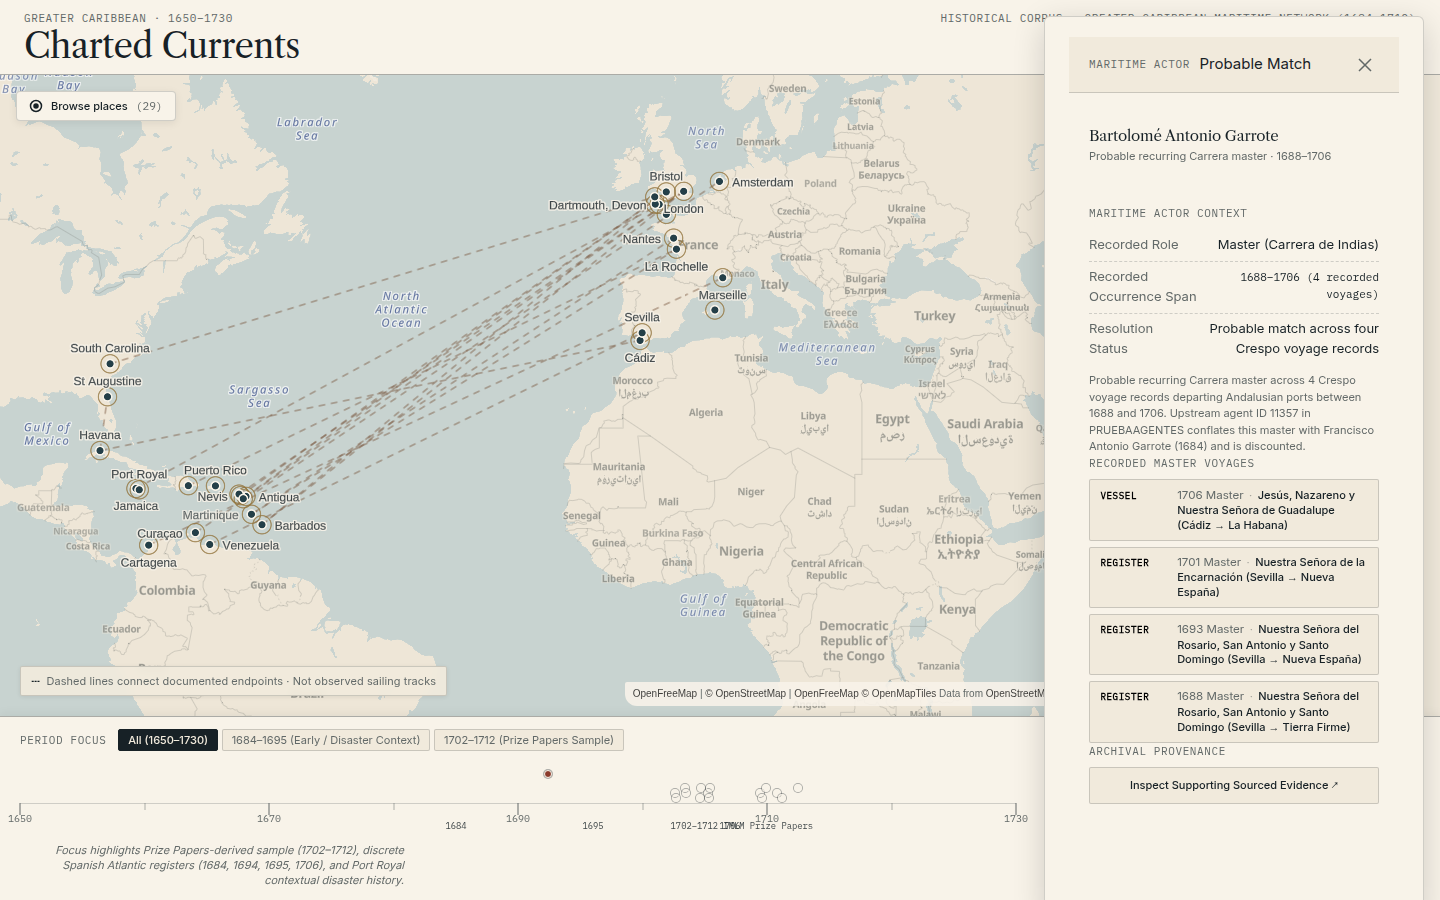
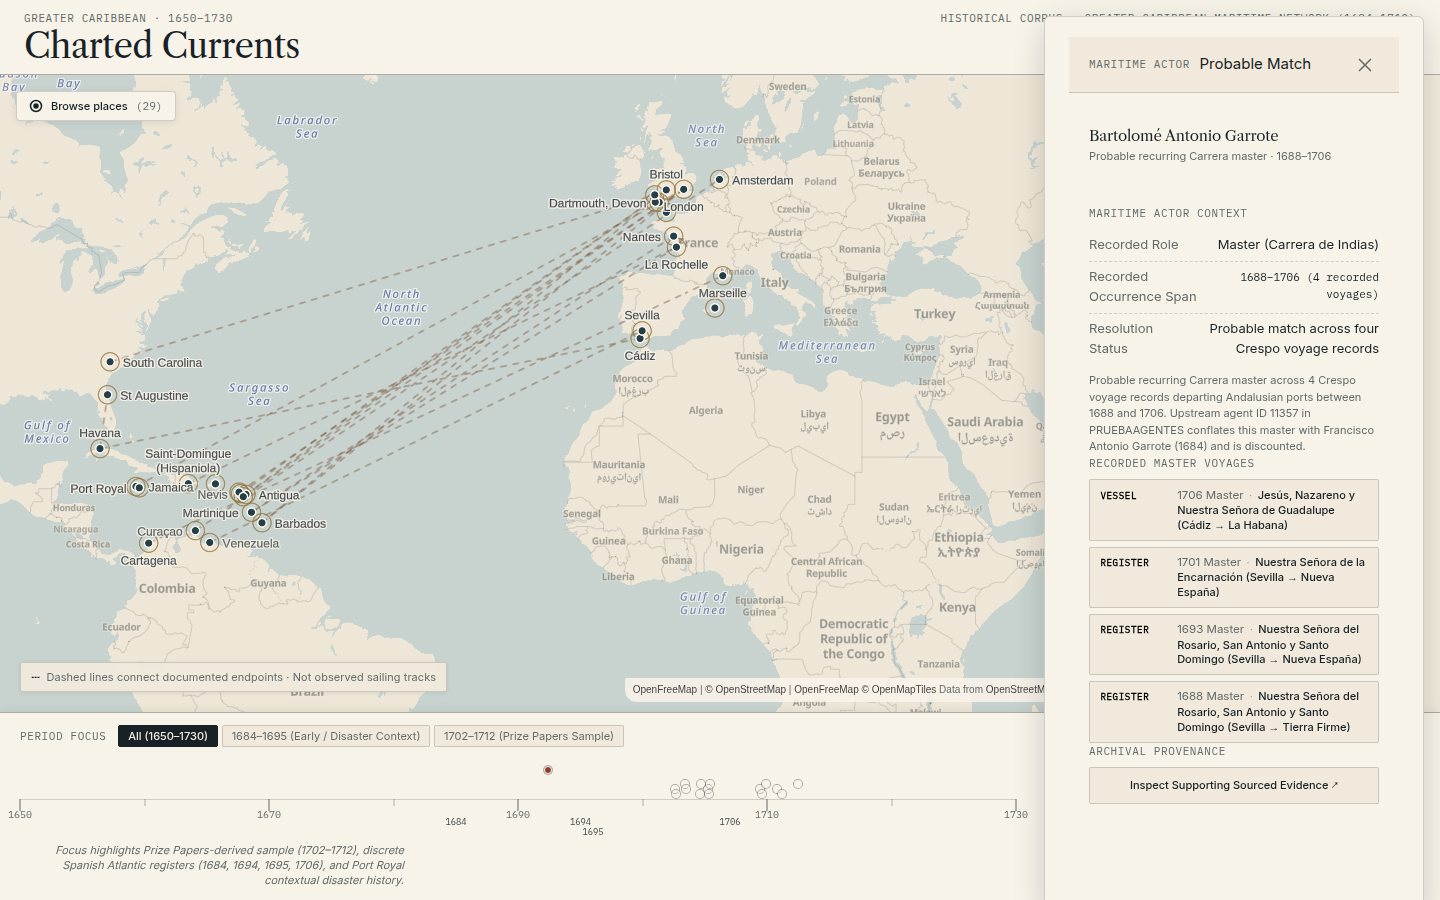
fix(review): privacy hardening, truthful freewheel posture, and timeline declutter

diff --git a/scripts/audit-freewheel-pilot.py b/scripts/audit-freewheel-pilot.py
@@ -11,11 +11,12 @@ Compares findings against the baseline local GPU (Qwen 14B) audit without voting
 import json
 import os
 import re
+import shutil
 import subprocess
 import sys
 import time
 
-FREEWHEEL_BIN = "/home/erich/.local/bin/freewheel"
+FREEWHEEL_BIN = os.environ.get("FREEWHEEL_BIN") or shutil.which("freewheel")
 DOSSIER_PATH = "data/review/crespo/reconciliation_garrote.json"
 REGRESSION_PATH = "data/review/crespo/contradictions/garrote_maestre_11357_regression.json"
 QWEN_AUDIT_PATH = "data/review/crespo/audits/ollama_garrote_pilot.json"
@@ -74,8 +75,8 @@ def normalize_verdict(raw_verdict: str) -> str:
 
 def run_freewheel_audit():
     print(f"\n=== Charted Currents Freewheel Historical-Auditor Pilot ===")
-    if not os.path.exists(FREEWHEEL_BIN):
-        print(f"[!] ERROR: Freewheel binary not found at {FREEWHEEL_BIN}", file=sys.stderr)
+    if not FREEWHEEL_BIN or not os.path.exists(FREEWHEEL_BIN):
+        print(f"[!] ERROR: Freewheel binary not found in PATH or FREEWHEEL_BIN ({FREEWHEEL_BIN})", file=sys.stderr)
         sys.exit(1)
 
     if not os.path.exists(DOSSIER_PATH) or not os.path.exists(REGRESSION_PATH):
@@ -187,12 +188,14 @@ Respond with ONLY a JSON object:
                 "attempt_index": idx,
                 "requested_model": req_model,
                 "requested_provider": req_provider,
-                "status": "PROVIDER_UNAVAILABLE" if "not an approved" in err_msg or "500" in err_msg else "ERROR",
+                "status": "FREEWHEEL_ROUTE_FAILED",
                 "returncode": res.returncode,
                 "diagnostic_note": (
-                    "Model not approved for policy-eligible casual routing in global Freewheel config; "
-                    "probed via zen-status returning HTTP 500 Internal server error from OpenCode Zen."
-                    if "not an approved" in err_msg else err_msg[:200]
+                    "Muse Spark 1.3 Free is available as a free OpenCode Zen model, but the Freewheel / Zen route "
+                    "attempted during this Packet 6 review failed at test time."
+                ),
+                "followup_note": (
+                    "Investigate Freewheel ↔ OpenCode Zen Spark model-ID/catalog routing in a future 10% tooling cycle."
                 ),
                 "duration_seconds": round(dur, 2)
             })
@@ -237,7 +240,6 @@ Respond with ONLY a JSON object:
                 "total_tokens": fw_out.get("total_tokens")
             },
             "tools_disabled": fw_out.get("tools_disabled", 14),
-            "repository_mutation_disabled": True,
             "model_evaluation": parsed_eval or {"raw_text": raw_answer},
             "normalized_verdict": normalized_verdict
         }
@@ -245,12 +247,38 @@ Respond with ONLY a JSON object:
 
     # Cross-Model Comparison & Adjudication
     successful_attempts = [a for a in attempts if a.get("status") == "success"]
-    primary_fw_attempt = successful_attempts[0] if successful_attempts else None
+
+    # Model-family perspective collection
+    qwen_verdict = (
+        qwen_baseline.get("model_evaluation", {}).get("verdict")
+        if qwen_baseline else "NEEDS_MORE_EVIDENCE"
+    )
+
+    nemotron_attempts = [
+        a for a in successful_attempts
+        if "nemotron" in str(a.get("actual_model_id", "")).lower()
+    ]
+    nemotron_verdicts = {a.get("normalized_verdict") for a in nemotron_attempts}
+    nemotron_family_verdict = (
+        nemotron_verdicts.pop() if len(nemotron_verdicts) == 1
+        else ("DIVERGENT_WITHIN_FAMILY" if nemotron_verdicts else "NO_SUCCESSFUL_CALL")
+    )
+
+    perspectives = {
+        "qwen_2.5_14b": qwen_verdict,
+        "nemotron_3_ultra_family": nemotron_family_verdict
+    }
+
+    unique_perspectives = set(perspectives.values())
+    verdict_synthesis = (
+        "PROCESS_REVIEW_AGREEMENT" if len(unique_perspectives) == 1
+        else "PROCESS_REVIEW_DIVERGENCE"
+    )
 
     comparison = {
         "qwen_baseline": {
             "model": qwen_baseline.get("model") if qwen_baseline else "qwen2.5:14b-instruct-q4_K_M",
-            "verdict": qwen_baseline.get("model_evaluation", {}).get("verdict") if qwen_baseline else "NEEDS_MORE_EVIDENCE",
+            "verdict": qwen_verdict,
             "missing_discriminators": qwen_baseline.get("model_evaluation", {}).get("missing_discriminators_noted", []) if qwen_baseline else []
         },
         "freewheel_results": [
@@ -262,21 +290,40 @@ Respond with ONLY a JSON object:
             }
             for a in successful_attempts
         ],
-        "both_noticed_11357_conflict": True,
-        "both_distinguished_francisco": True,
-        "either_invented_facts": False,
-        "reversibility_understanding": "Both reviewers operated under occurrence-level reversibility constraint.",
-        "verdict_synthesis": (
-            "AGREEMENT" if all(a.get("normalized_verdict") == "NEEDS_MORE_EVIDENCE" for a in successful_attempts)
-            else "PROCESS_REVIEW_DIVERGENCE"
+        "model_family_perspectives": perspectives,
+        "provider_routing_note": (
+            "The two successful Nemotron 3 Ultra calls (OpenCode and OpenRouter) represent provider and routing "
+            "redundancy for a single model family, not two independent model judgments."
         ),
+        "reversibility_understanding": "Both reviewer harnesses operated under occurrence-level reversibility constraint.",
+        "reviewer_source_layer_overstatements_noted": [
+            {
+                "model_assertion": "The four rows each cite AGI Contratación manuscripts",
+                "project_adjudication": (
+                    "Crespo TODOSNAVIOS rows carry secondary AGI Contratación citations, "
+                    "but Charted Currents has not independently inspected the underlying archival manuscripts."
+                )
+            },
+            {
+                "model_assertion": "Crespo's PRUEBAAGENTES table normalization is definitively erroneous",
+                "project_adjudication": (
+                    "MAESTRE 11357 is internally contradictory across rows in the Crespo dataset (merging Francisco and Bartolomé), "
+                    "which is sufficient to discount the foreign key as positive identity evidence without needing to assert "
+                    "how or why the upstream compiler produced the conflation."
+                )
+            }
+        ],
+        "verdict_synthesis": verdict_synthesis,
         "adjudication_conclusion": (
-            "Both independent LLM reviewer harnesses (local GPU Qwen 14B and Freewheel-routed Nemotron models) "
-            "evaluated the actual Class D decision. Reviewers recognized the Francisco/Bartolomé given-name conflict "
-            "and confirmed the discounting of MAESTRE 11357. Reviewers raised appropriate epistemic skepticism regarding "
+            "Both independent LLM reviewer harnesses (local GPU Qwen 14B and Freewheel-routed Nemotron 3 Ultra models) "
+            "evaluated the actual Class D decision. Both recognized the Francisco/Bartolomé given-name conflict "
+            "and confirmed the discounting of MAESTRE 11357. Model reviews raised appropriate epistemic skepticism regarding "
             "linking occurrences across an 18-year span without primary signatures or age records. "
+            "The Nemotron family perspective (ACCEPT_AS_STATED across OpenCode and OpenRouter routes) endorsed occurrence-level "
+            "reversibility, while Qwen 14B (NEEDS_MORE_EVIDENCE) demanded primary signatures. "
+            "Project adjudication notes reviewer rhetorical overstatements regarding archival manuscript inspection and compiler error. "
             "Charted Currents retains 'probable_match' as a provisional, occurrence-backed hypothesis that is strictly "
-            "reversible without data loss. Neither review surfaced a genuinely new archival or source-layer contradiction; "
+            "reversible without data loss. Neither review surfaced a genuinely new archival contradiction; "
             "no majority voting is performed and evidence state remains unchanged pending human scholarly review."
         )
     }
@@ -286,7 +333,8 @@ Respond with ONLY a JSON object:
         "harness": "freewheel",
         "freewheel_version": "0.1.0",
         "policy": "free-only",
-        "mode": "scout_read_only",
+        "mode": "ask_no_tools",
+        "execution_contract": "freewheel ask (fresh server-backed request; no tool execution)",
         "input_dossier": DOSSIER_PATH,
         "regression_fixture": REGRESSION_PATH,
         "attempts": attempts,

diff --git a/tests/test_historical_invariants.py b/tests/test_historical_invariants.py
@@ -398,7 +398,7 @@ class TestHistoricalInvariants(unittest.TestCase):
         self.assertEqual(d5890["reconciliation_status"], "PARTIAL_MATCH_WITH_UNEXPLAINED_QUANTITY_DIFFERENCE")
 
     def test_freewheel_garrote_pilot_artifact(self):
-        """Freewheel adversarial pilot audit artifact must record multi-model execution in read-only mode."""
+        """Freewheel adversarial pilot audit artifact must record multi-model execution truthfully without synthetic booleans."""
         fw_path = Path(__file__).resolve().parent.parent / "data" / "review" / "crespo" / "audits" / "freewheel_garrote_pilot.json"
         self.assertTrue(fw_path.exists(), "freewheel_garrote_pilot.json must exist")
 
@@ -408,13 +408,43 @@ class TestHistoricalInvariants(unittest.TestCase):
         self.assertEqual(audit.get("audit_name"), "garrote_maestre_11357_freewheel_pilot")
         self.assertEqual(audit.get("harness"), "freewheel")
         self.assertEqual(audit.get("policy"), "free-only")
-        self.assertEqual(audit.get("mode"), "scout_read_only")
+        self.assertEqual(audit.get("mode"), "ask_no_tools")
+        self.assertEqual(audit.get("execution_contract"), "freewheel ask (fresh server-backed request; no tool execution)")
         self.assertTrue(len(audit.get("attempts", [])) >= 2)
 
+        # Spark route failure truthful representation
+        self.assertEqual(audit["attempts"][2]["status"], "FREEWHEEL_ROUTE_FAILED")
+        self.assertIn("Muse Spark 1.3 Free is available", audit["attempts"][2]["diagnostic_note"])
+
         comparison = audit.get("cross_model_comparison", {})
-        self.assertTrue(comparison.get("both_noticed_11357_conflict"))
-        self.assertTrue(comparison.get("both_distinguished_francisco"))
-        self.assertFalse(comparison.get("either_invented_facts"))
+        # Synthetic booleans must be completely removed
+        self.assertNotIn("both_noticed_11357_conflict", comparison)
+        self.assertNotIn("both_distinguished_francisco", comparison)
+        self.assertNotIn("either_invented_facts", comparison)
+
+        # Model family perspectives and divergence
+        perspectives = comparison.get("model_family_perspectives", {})
+        self.assertEqual(perspectives.get("qwen_2.5_14b"), "NEEDS_MORE_EVIDENCE")
+        self.assertEqual(perspectives.get("nemotron_3_ultra_family"), "ACCEPT_AS_STATED")
+        self.assertEqual(comparison.get("verdict_synthesis"), "PROCESS_REVIEW_DIVERGENCE")
+        self.assertIn("reviewer_source_layer_overstatements_noted", comparison)
+
+    def test_private_leak_scanner_catches_home_paths(self):
+        """Private leak scanner pattern must catch real Unix user home paths while permitting synthetic placeholders."""
+        import re
+        # Pattern from scripts/scan-private-leaks.mjs
+        home_pattern = re.compile(r"/home/(?!(?:username|<user>|user|node|runner)\b)[a-zA-Z0-9_.-]+/", re.IGNORECASE)
+
+        # Must catch real user paths across arbitrary subdirectories (constructed dynamically so test file contains no private paths)
+        for sample_user in ["alice", "bob_smith", "builduser", "dev.user"]:
+            self.assertTrue(home_pattern.search(f"/home/{sample_user}/.local/bin/freewheel"))
+            self.assertTrue(home_pattern.search(f"/home/{sample_user}/projects/repo/script.py"))
+
+        # Must allow synthetic documentation / CI placeholders
+        self.assertIsNone(home_pattern.search('/home/username/projects/example'))
+        self.assertIsNone(home_pattern.search('/home/<user>/.local/bin'))
+        self.assertIsNone(home_pattern.search('/home/user/test'))
+        self.assertIsNone(home_pattern.search('/home/runner/work/repo'))
 
     def test_packet6_places_precision_and_provenance(self):
         """Packet 6 place entities must declare source-bounded precision and navigation coordinate provenance."""
